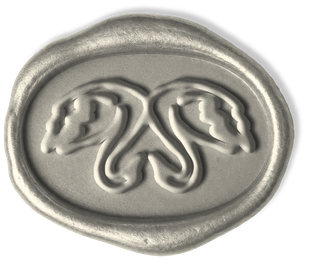
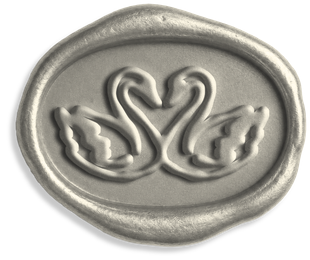
왁스 씰 방향 수정 — 백조가 똑바로 서도록 시계 방향으로 회전
Claude-Session: https://claude.ai/code/session_01BQdfjNVP6cq2YY2kHQCcfg

diff --git a/index.html b/index.html
@@ -608,7 +608,7 @@ const CONFIG = {
     /* 은쟁반 + 봉투 + 꽃 — 문구까지 들어간 완성 이미지 */
     { file:"photos/st-gift.png",          label:"6 · 마음 전하실 곳",x:2, y:100, w:68, r:0,  to:"#gift" },
     /* 씰은 가로로, 폴라로이드 아래쪽에 겹치게 (폴라로이드보다 뒤에 적어 위에 보이도록) */
-    { file:"photos/wax-seal-h.png",       label:"씰",          x:79, y:97,  w:18, r:-10 },
+    { file:"photos/wax-seal-h.png",       label:"씰",          x:79, y:97,  w:18, r:-6 },
     { file:"photos/ribbon.png",           label:"리본",        x:4,  y:142, w:40, r:-8 },
     { file:"photos/st-info.png",          label:"5 · 예식 순서",x:44, y:136, w:54, r:4,  to:".tlsec" }
   ],
